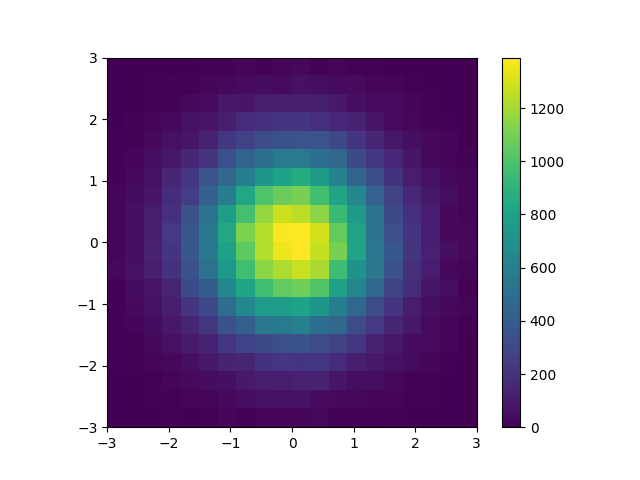
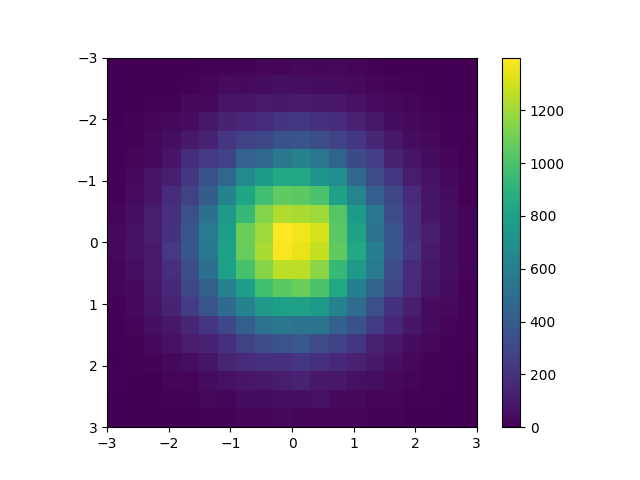
Fix illustrations scale and a new illustration. Update README.md.

diff --git a/README.md b/README.md
@@ -3,12 +3,13 @@
 This is a small program for building 2D hists and plotting them in the form of heatmap. Hist building code written in C++, plotting code written in Python using matplotlib.
 
 ## Result example
-Gaussian distribution (mean 0, standard deviation 1). 
+Gaussian distribution (mean 0, standard deviation 1), 100,000 samples. 
 
-20x20 bins and 50x50 bins.
+20x20 bins, 50x50 bins, 120x120 bins (number calculated using Freedman–Diaconis rule) respectively.
 
 ![Alt text](images/Figure_1_20_20.png?raw=true "20x20")
 ![Alt text](images/Figure_2_50_50.png?raw=true "50x50")
+![Alt text](images/Figure_3_120_120.png?raw=true "120x120")
 
 ## Options
 
